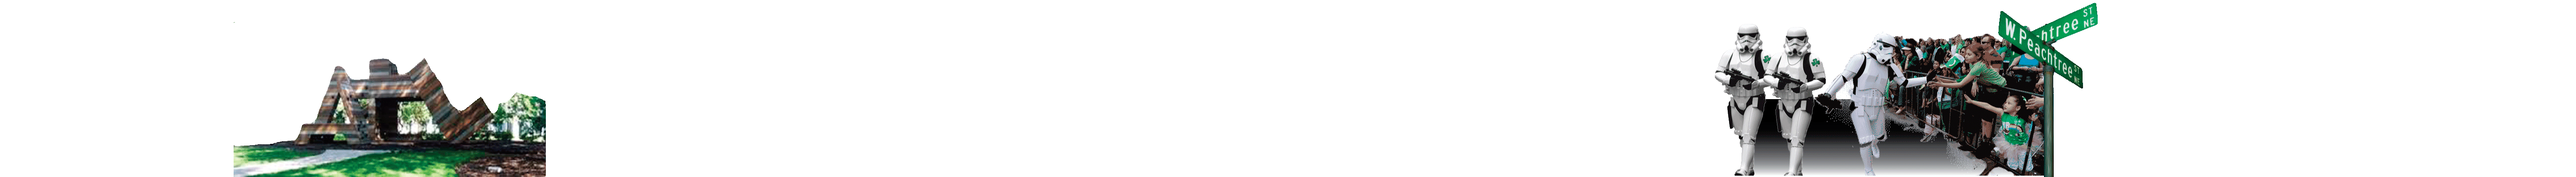
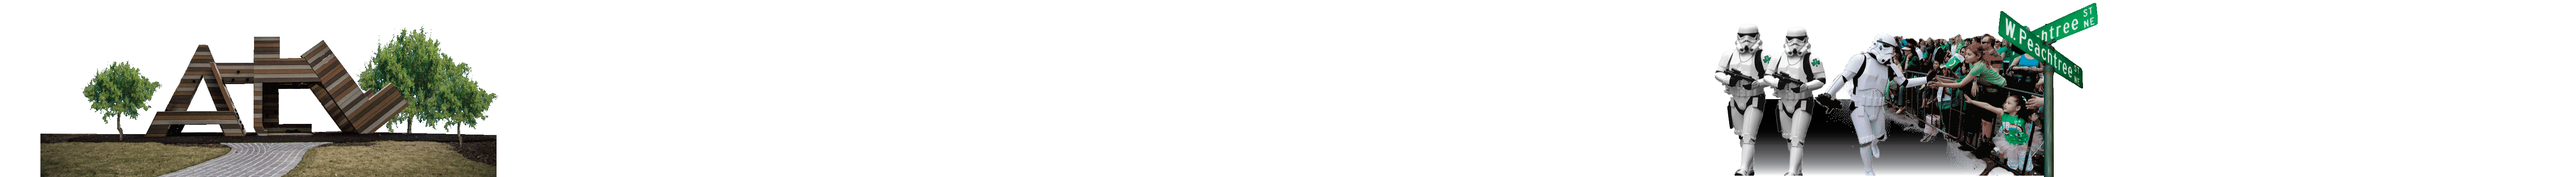
date picker, graphics

Changed region(s): [[0.0, 0.18, 0.2184, 1.0]]

diff --git a/client/app/views/itineraries/new.html b/client/app/views/itineraries/new.html
@@ -24,10 +24,33 @@
     <input placeholder="Name"
            ng-model="newItineraryName"
            ng-disabled="saving" autofocus>
+
+<!--
     <input placeholder="Date"
-           ng-model="newItineraryDate"
+           ng-model="newItineraryDateAsString"
            ng-disabled="saving" autofocus
-           onaftersave="getItineraries">      
+           onaftersave="getItineraries">
+-->
+
+    <div class="new-itinerary-date">
+      <span class="input-group">
+        <input type="text"
+               class="form-control date-picker"
+               datepicker-popup="''dd-MMMM-yyyy'"
+               ng-model="newItineraryDate"
+               is-open="dateChooserState.opened"
+               datepicker-options="dateOptions"
+               ng-required="true"
+               close-text="Close"
+               placeholder="Date" />
+        <span class="input-group-btn">
+          <button type="button" class="date-picker btn btn-default" ng-click="open($event)">
+            <i class="glyphicon glyphicon-calendar"></i>
+          </button>
+        </span>
+      </p>
+    </div>
+
     <button type="submit" value="Submit">Create</button>
   </form>
 

diff --git a/client/app/index.html b/client/app/index.html
@@ -16,6 +16,7 @@
     <!-- build:css(.tmp) styles/main.css -->
     <link rel="stylesheet" href="styles/main.css">
     <link rel="stylesheet" href="styles/styles.css">
+   
     <!-- endbuild -->
   </head>
   <body ng-app="streetCarApp" ng-cloak>
@@ -76,6 +77,7 @@
     <script src="bower_components/leaflet/dist/leaflet-src.js"></script>
     <script src="bower_components/angular-leaflet-directive/dist/angular-leaflet-directive.js"></script>
     <script src="bower_components/mapbox.js/mapbox.js"></script>
+    <script src="bower_components/angular-bootstrap/ui-bootstrap-tpls.js"></script>
     <!-- endbower -->
     <!-- endbuild -->
 
@@ -95,7 +97,9 @@
         <script src="scripts/services/map.js"></script>
         <script src="scripts/controllers/get_events.js"></script>
         <script src="scripts/services/events.js"></script> 
-        <script src="scripts/controllers/show_itinerary_events.js"></script>       
+        <script src="scripts/controllers/show_itinerary_events.js"></script> 
+
+
         <!-- endbuild -->
 </body>
 </html>

diff --git a/client/app/styles/styles.scss b/client/app/styles/styles.scss
@@ -210,9 +210,9 @@ and (min-width : 481px) {
 }
 
 .art {
-  z-index:750;
+  z-index:730;
  /* margin-left: -500;*/
-  height:33vw;
+  height:40vw;
 }
 
 .middle-trolley {
@@ -396,4 +396,11 @@ and (min-width : 481px) {
 }
 .group-person .group-person-description {width: 100%; margin: 0 auto; padding-left: 10px; text-align: center;}
 
+}
+
+.new-itinerary-date {
+  width: 200px;
+}
+.date-picker{
+  border-radius: 0px;
 }

diff --git a/client/test/karma.conf.js b/client/test/karma.conf.js
@@ -32,6 +32,7 @@ module.exports = function(config) {
       'bower_components/leaflet/dist/leaflet-src.js',
       'bower_components/angular-leaflet-directive/dist/angular-leaflet-directive.js',
       'bower_components/mapbox.js/mapbox.js',
+      'bower_components/angular-bootstrap/ui-bootstrap-tpls.js',
       'bower_components/angular-mocks/angular-mocks.js',
       // endbower
       'app/scripts/**/*.js',

diff --git a/client/app/scripts/controllers/itineraries.js b/client/app/scripts/controllers/itineraries.js
@@ -46,5 +46,17 @@ angular.module('streetCarApp')
     });
   };
 
+  $scope.dateChooserState = {
+    opened: false
+  };
+
+  $scope.open = function($event) {
+    console.log('open called');
+    $event.preventDefault();
+    $event.stopPropagation();
+
+    $scope.dateChooserState.opened = true;
+  };
+
 
   });

diff --git a/client/app/scripts/app.js b/client/app/scripts/app.js
@@ -16,7 +16,8 @@ angular
     'ui.router',
     'ngSanitize',
     'ngTouch',
-    'leaflet-directive'
+    'leaflet-directive',
+    'ui.bootstrap'
   ])
   .config(function ($httpProvider, $stateProvider, $urlRouterProvider) {
     
